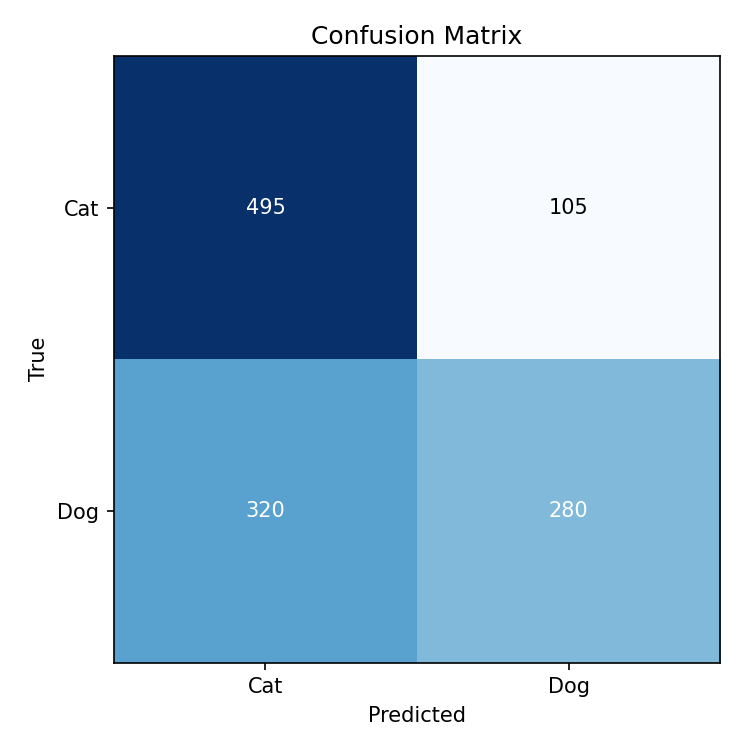
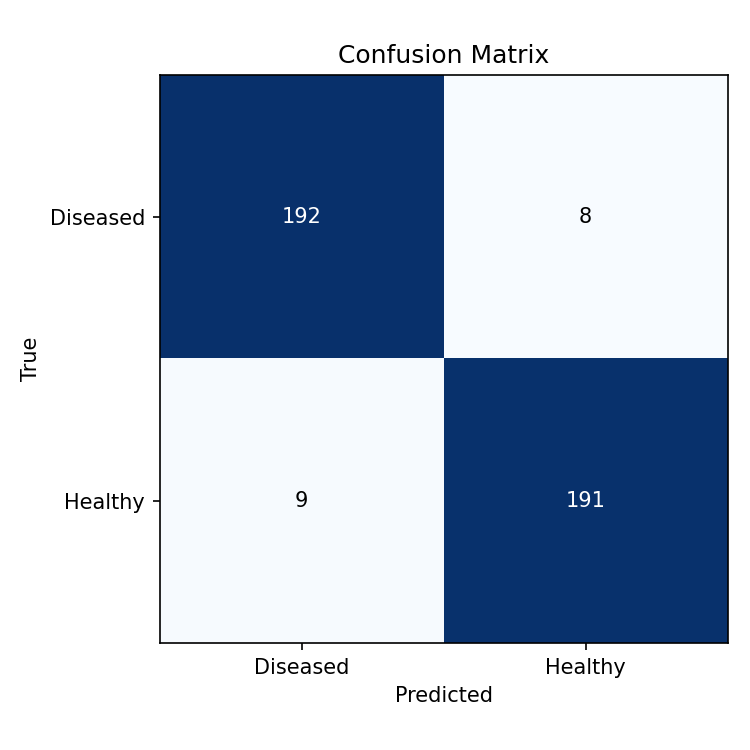
LAB07 update batch size comparion

diff --git a/LAB07/classification/main.py b/LAB07/classification/main.py
@@ -1,31 +1,31 @@
 import json
 import os
-
+import shutil
 import numpy as np
 
 from data_loader import load_data
 from preprocessing import to_features
 from split_data import split_dataset
 from cnn_model import train_model, predict_model
-from evaluate import evaluate_model, plot_history
+from evaluate import evaluate_model, plot_history, plot_batch_comparison
 
 # Paths are relative to this file, so the script runs from any directory
 BASE_DIR = os.path.dirname(os.path.abspath(__file__))
-DATA_PATH = os.path.join(BASE_DIR, "..", "PetImages")
+DATA_PATH = os.path.join(BASE_DIR, "..", "dataImages")
 OUTPUT_DIR = os.path.join(BASE_DIR, "outputs")
 
-IMG_SIZE = 100
+IMG_SIZE = 128
 TEST_SIZE = 0.2
 VAL_SIZE = 0.1
-MAX_PER_CLASS = 3000   # None = use all images
-EPOCHS = 30
-BATCH_SIZE = 32
+MAX_PER_CLASS = 1000   # None = use all images
+EPOCHS = 100
+BATCH_SIZES = [16, 32, 64]
 
 
 def main():
 
     print("--" * 30)
-    print("CNN Image Recognition: Cat vs Dog")
+    print("CNN Image Recognition Leaf Diseases")
     print("--" * 30)
 
     os.makedirs(OUTPUT_DIR, exist_ok=True)
@@ -70,25 +70,47 @@ def main():
     print(f"Validation samples: {len(X_val)}")
     print(f"Testing samples   : {len(X_test)}")
 
-    # Step 4: Train Model
-    print("\n[Step 4] Training model...")
+    # Step 4: Train Model for Each Batch Size
+    print("\n[Step 4] Training model with different batch sizes...")
 
-    model, history = train_model(
-        X_train, y_train, X_val, y_val, len(classes),
-        OUTPUT_DIR, EPOCHS, BATCH_SIZE
-    )
+    history_files = []
+    plot_labels = []
+    last_model = None
+
+    for bs in BATCH_SIZES:
+        print("\n" + "=" * 30)
+        print(f"   Training Model with Batch Size = {bs}")
+        print("=" * 30)
+
+        # เทรนโมเดลโดยระบุ batch_size ตามรอบลูป
+        model, history = train_model(
+            X_train, y_train, X_val, y_val, len(classes),
+            OUTPUT_DIR, EPOCHS, batch_size=bs
+        )
+
+        last_model = model
+
+        # ป้องกันไม่ให้ไฟล์ history.json ถูกบันทึกทับในรอบถัดไป
+        old_hist_path = os.path.join(OUTPUT_DIR, "history.json")
+        new_hist_path = os.path.join(OUTPUT_DIR, f"history_bs_{bs}.json")
+        shutil.move(old_hist_path, new_hist_path)
+
+        history_files.append(new_hist_path)
+        plot_labels.append(f"Batch Size {bs}")
 
     print("Training completed.")
 
     # Step 5: Prediction
-    print("\n[Step 5] Testing model...")
-    predictions = predict_model(model, X_test)
+    print("\n[Step 5] Testing model (Last Batch Size)...")
+    predictions = predict_model(last_model, X_test)
 
     # Step 6: Evaluation
     print("\n[Step 6] Evaluating model...")
     evaluate_model(y_test, predictions, classes,
                    save_path=f"{OUTPUT_DIR}/confusion_matrix.png")
-    plot_history(history, f"{OUTPUT_DIR}/training_history.png")
+    
+    comparison_save_path = os.path.join(OUTPUT_DIR, "batch_size_comparison.png")
+    plot_batch_comparison(history_files, plot_labels, save_path=comparison_save_path)
 
 
 if __name__ == "__main__":

diff --git a/LAB07/classification/plot_all_histories.py b/LAB07/classification/plot_all_histories.py
@@ -1,0 +1,62 @@
+import json
+import os
+import matplotlib.pyplot as plt
+
+BASE_DIR = os.path.dirname(os.path.abspath(__file__))
+OUTPUT_DIR = os.path.join(BASE_DIR, "outputs")
+
+BATCH_SIZES = [16, 32, 64]
+
+
+def plot_single_history(json_path, save_path, batch_size):
+    """อ่านไฟล์ history.json ของแต่ละ Batch Size มาพล็อตกราฟ Accuracy และ Loss"""
+    if not os.path.exists(json_path):
+        print(f"File not found: {json_path}")
+        return
+
+    with open(json_path, "r") as f:
+        history = json.load(f)
+
+    # ดึงข้อมูล Accuracy และ Loss
+    acc = history.get("accuracy", history.get("acc", []))
+    val_acc = history.get("val_accuracy", history.get("val_acc", []))
+    loss = history.get("loss", [])
+    val_loss = history.get("val_loss", [])
+
+    epochs = range(len(acc))
+
+    # สร้างรูปขนาด 2 กราฟฝั่งละด้าน (Accuracy และ Loss)
+    fig, (ax1, ax2) = plt.subplots(1, 2, figsize=(12, 4.5))
+
+    # --- กราฟ Accuracy ---
+    ax1.plot(epochs, acc, label="train", color="#1f77b4", linewidth=1.5)
+    ax1.plot(epochs, val_acc, label="validation", color="#ff7f0e", linewidth=1.5)
+    ax1.set_title(f"Accuracy (Batch Size {batch_size})", fontsize=12)
+    ax1.set_xlabel("Epoch", fontsize=10)
+    ax1.set_ylabel("Accuracy", fontsize=10)
+    ax1.legend(loc="lower right")
+
+    # --- กราฟ Loss ---
+    ax2.plot(epochs, loss, label="train", color="#1f77b4", linewidth=1.5)
+    ax2.plot(epochs, val_loss, label="validation", color="#ff7f0e", linewidth=1.5)
+    ax2.set_title(f"Loss (Batch Size {batch_size})", fontsize=12)
+    ax2.set_xlabel("Epoch", fontsize=10)
+    ax2.set_ylabel("Loss", fontsize=10)
+    ax2.legend(loc="upper right")
+
+    plt.tight_layout()
+    plt.savefig(save_path, dpi=200)
+    plt.close()
+    print(f"Saved: {save_path}")
+
+
+def main():
+    for bs in BATCH_SIZES:
+        json_path = os.path.join(OUTPUT_DIR, f"history_bs_{bs}.json")
+        save_path = os.path.join(OUTPUT_DIR, f"training_history_bs_{bs}.png")
+
+        plot_single_history(json_path, save_path, bs)
+
+
+if __name__ == "__main__":
+    main()

diff --git a/LAB07/classification/cnn_model.py b/LAB07/classification/cnn_model.py
@@ -18,8 +18,9 @@ def build_model(input_shape, num_classes):
         # Light augmentation, only active during training.
         # This is what keeps a small CNN from memorising the training set.
         layers.RandomFlip("horizontal"),
-        layers.RandomRotation(0.1),
-        layers.RandomZoom(0.1),
+        layers.RandomRotation(0.2),
+        layers.RandomZoom(0.2),
+        layers.RandomContrast(0.2),
 
         layers.Conv2D(32, 3, padding="same", activation="relu"),
         layers.BatchNormalization(),
@@ -35,9 +36,9 @@ def build_model(input_shape, num_classes):
 
         # Pooling instead of Flatten keeps the dense head small
         layers.GlobalAveragePooling2D(),
-        layers.Dropout(0.3),
+        layers.Dropout(0.5),
         layers.Dense(128, activation="relu"),
-        layers.Dropout(0.3),
+        layers.Dropout(0.5),
 
         # 1 sigmoid output for 2 classes, softmax otherwise
         layers.Dense(
@@ -47,7 +48,7 @@ def build_model(input_shape, num_classes):
     ])
 
     model.compile(
-        optimizer=keras.optimizers.Adam(1e-3),
+        optimizer=keras.optimizers.Adam(1e-4),
         loss="binary_crossentropy" if num_classes == 2
              else "sparse_categorical_crossentropy",
         metrics=["accuracy"],
@@ -66,7 +67,7 @@ def train_model(X_train, y_train, X_val, y_val, num_classes,
     callbacks = [
         # Stop when validation loss stops improving, keep the best weights
         keras.callbacks.EarlyStopping(
-            monitor="val_loss", patience=5, restore_best_weights=True
+            monitor="val_loss", patience=10, restore_best_weights=True
         ),
         keras.callbacks.ReduceLROnPlateau(
             monitor="val_loss", factor=0.5, patience=3, min_lr=1e-5

diff --git a/LAB07/classification/evaluate.py b/LAB07/classification/evaluate.py
@@ -1,5 +1,8 @@
 import matplotlib
 
+import json
+import matplotlib.ticker as mtick
+
 # Set backend before pyplot, so it works without a display
 matplotlib.use("Agg")
 
@@ -89,5 +92,40 @@ def plot_history(history, save_path):
 
     fig.tight_layout()
     fig.savefig(save_path, dpi=150)
+    plt.close(fig)
+    print(f"Saved: {save_path}")
+
+def plot_batch_comparison(history_files, labels, save_path):
+    fig, ax = plt.subplots(figsize=(8, 5))
+    colors = ['#00B050', '#FF0000', '#00FFFF', '#FFC000']
+    
+    for i, (hist_file, label) in enumerate(zip(history_files, labels)):
+        with open(hist_file, 'r') as f:
+            history_data = json.load(f)
+        
+        val_acc_pct = [acc * 100 for acc in history_data['val_accuracy']]
+        ax.plot(
+            range(1, len(val_acc_pct) + 1), 
+            val_acc_pct, 
+            label=label, 
+            color=colors[i % len(colors)], 
+            linewidth=2
+        )
+
+    ax.set_xlabel("Epoch", fontsize=12, fontweight='bold')
+    ax.set_ylabel("Test accuracy top-1", fontsize=12, fontweight='bold')
+    ax.yaxis.set_major_formatter(mtick.PercentFormatter(decimals=0))
+    ax.set_ylim([0, 100])
+    ax.set_yticks(range(0, 101, 20))
+    ax.grid(axis='y', linestyle='--', alpha=0.5)
+    ax.legend(
+        loc='upper center', 
+        bbox_to_anchor=(0.5, 1.15), 
+        ncol=len(labels), 
+        edgecolor='black'
+    )
+    
+    fig.tight_layout(rect=[0, 0, 1, 0.85])
+    fig.savefig(save_path, dpi=200)
     plt.close(fig)
     print(f"Saved: {save_path}")

diff --git a/LAB07/classification/preprocessing.py b/LAB07/classification/preprocessing.py
@@ -27,5 +27,3 @@ def preprocess_image(image, img_size=100):
 def to_features(images):
 
     return np.ascontiguousarray(images, dtype=np.uint8)
-
-

diff --git a/LAB07/README.md b/LAB07/README.md
@@ -1,0 +1,38 @@
+```text
+LAB07/
+├── classification/                     # Main source code and execution directory
+│   ├── outputs/                        # Generated model outputs and evaluation artifacts
+│   │   ├── batch_size_comparison.png   # Combined accuracy comparison chart across batch sizes
+│   │   ├── classes.json                # Class names mapping JSON
+│   │   ├── cnn_model.keras             # Saved trained Keras model file
+│   │   ├── confusion_matrix.png        # Confusion matrix visualization
+│   │   ├── features.npy                # Extracted image features array
+│   │   ├── history_bs_16.json          # Training history for batch size 16
+│   │   ├── history_bs_32.json          # Training history for batch size 32
+│   │   ├── history_bs_64.json          # Training history for batch size 64
+│   │   ├── labels.npy                  # Target labels array
+│   │   ├── prediction_sample.png       # Sample predictions visualization
+│   │   ├── training_history_bs_16.png  # Accuracy & Loss plot for batch size 16
+│   │   ├── training_history_bs_32.png  # Accuracy & Loss plot for batch size 32
+│   │   ├── training_history_bs_64.png  # Accuracy & Loss plot for batch size 64
+│   │   ├── X_test.npy                  # Test set features
+│   │   ├── X_train.npy                 # Training set features
+│   │   ├── X_val.npy                   # Validation set features
+│   │   ├── y_test.npy                  # Test set labels
+│   │   ├── y_train.npy                 # Training set labels
+│   │   └── y_val.npy                   # Validation set labels
+│   ├── cnn_model.py                    # CNN model architecture and training module
+│   ├── data_loader.py                  # Dataset loading module
+│   ├── evaluate.py                     # Evaluation metrics and plotting utilities
+│   ├── main.py                         # Main pipeline execution script
+│   ├── plot_all_histories.py           # Script to generate individual training graphs
+│   ├── preprocessing.py                # Data preprocessing and feature conversion
+│   ├── split_data.py                   # Train/Val/Test dataset splitting module
+│   └── test_cnn.py                     # Model inference testing script
+├── dataImages/                         # Raw image dataset directory
+│   ├── Diseased/                       # Images of diseased plant leaves
+│   └── Healthy/                        # Images of healthy plant leaves
+├── requirements.txt
+├── README.md
+└── link-data.txt
+```
